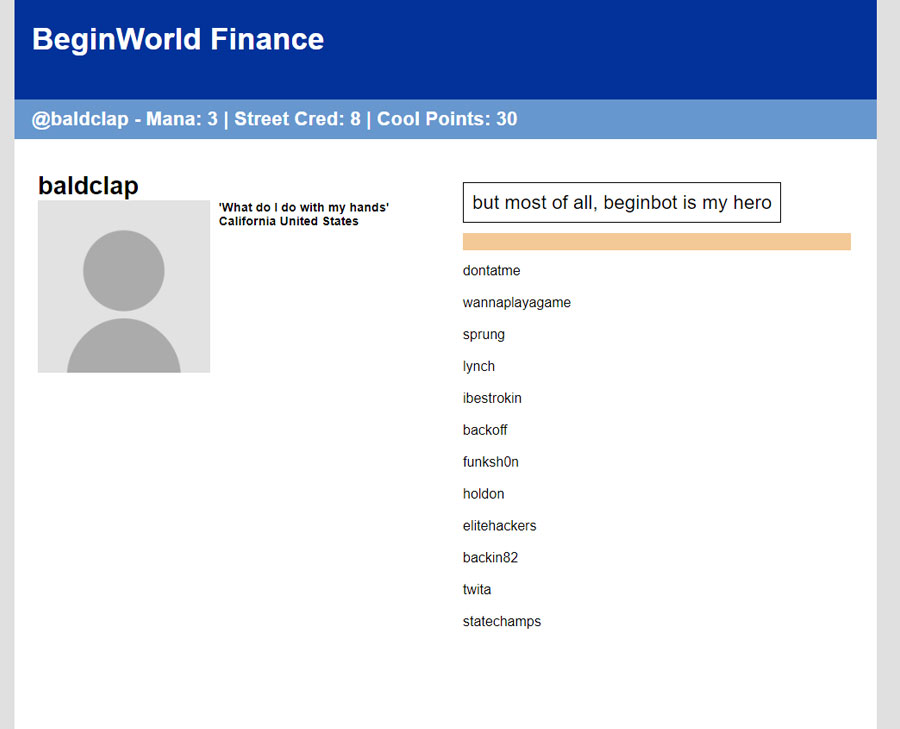
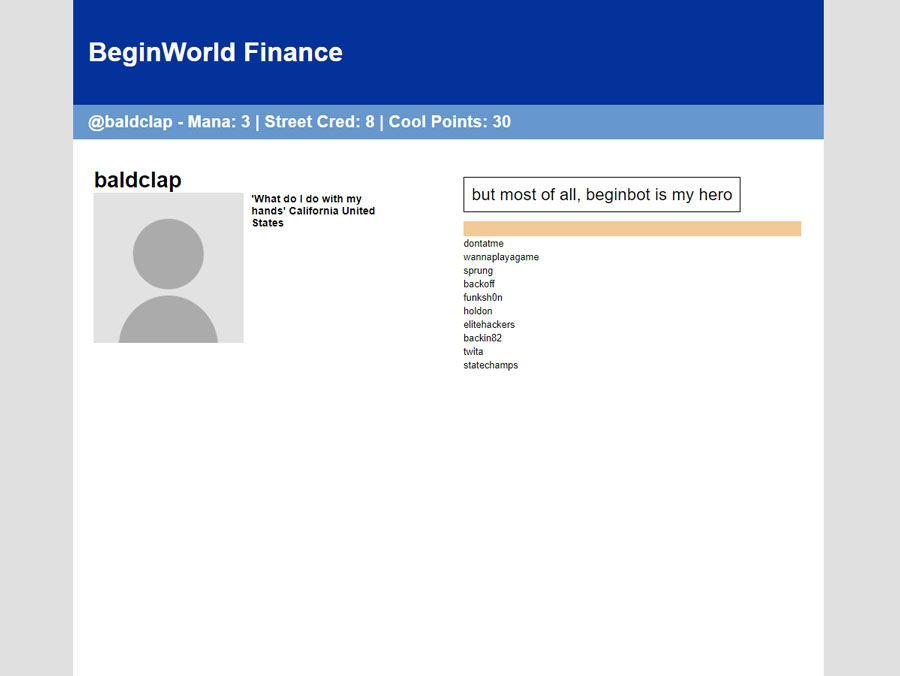
Update Myspace CSS

Changed region(s): [[0.0, 0.0, 0.9956, 1.0], [0.4978, 0.7145, 0.5911, 0.7766], [0.4978, 0.8077, 0.5911, 0.8698]]

diff --git a/myspace.css b/myspace.css
@@ -70,11 +70,11 @@ li:first-of-type {
 }
 li {
     color: black;
-    font-size: .5em;
+    font-size: .8em;
 }
 li a {
     color:black;
-    font-size:.5em;
+    font-size:.8em;
     text-decoration: none;
 }
 li a:hover {

diff --git a/README.md b/README.md
@@ -6,47 +6,47 @@ To use any of these themes as your own Beginland theme, grab the URL below and t
 
 Donate: This org is entirely run on donations. Your donations are greatly appreciated. Please address all Street Cred/Cool Point/Sound donations to the artist directly. 
 
-##Baldclap 1 (animated)
-artist: @baldclap
+## Baldclap 1 (animated)
+*artist: @baldclap*
 https://dillonupgradeit.github.io/css-fun/baldclap1.css
 ![](images/baldclap1.gif)
 
-##Beginbot 1
-artist: @beginbot
+## Beginbot 1
+*artist: @beginbot*
 https://dillonupgradeit.github.io/css-fun/beginbot1.css
 ![](images/beginbot1.jpg)
 
-##Beginbotbot 1
-artist: @beginbotbot
+## Beginbotbot 1
+*artist: @beginbotbot*
 https://dillonupgradeit.github.io/css-fun/beginbotbot1.css
 ![](images/beginbotbot1.jpg)
 
-##Cachesking 1 (animated)
-artist: @cachesking
+## Cachesking 1 (animated)
+*artist: @cachesking*
 https://dillonupgradeit.github.io/css-fun/cachesking1.css
 ![](images/cachesking1.gif)
 
-##Myspace
-artist: @baldclap
+## Myspace
+*artist: @baldclap*
 https://dillonupgradeit.github.io/css-fun/myspace.css
 ![](images/myspace.jpg)
 
-##Sanari_Nomi 1
-artist: @sanari_nomi
+## Sanari_Nomi 1
+*artist: @sanari_nomi*
 https://dillonupgradeit.github.io/css-fun/sanarinomi.css
 ![](images/sanarinomi1.jpg)
 
-##Usernamesarelame 1
-artist: @usernamesarelame
+## Usernamesarelame 1
+*artist: @usernamesarelame*
 https://dillonupgradeit.github.io/css-fun/usernamesarelame1.css
 ![](images/usernamesarelame1.jpg)
 
-##Whatsinmyopsec 1 (animated)
-artist: @whatsinmyopsec
+## Whatsinmyopsec 1 (animated)
+*artist: @whatsinmyopsec*
 https://dillonupgradeit.github.io/css-fun/whatsinmyopsec1.css
 ![](images/whatsinmyopsec1.gif)
 
-##Zolor 1
-artist: @zolor
+## Zolor 1
+*artist: @zolor*
 https://dillonupgradeit.github.io/css-fun/zolor1.css
-![](images/zolor1.gif)
+![](images/zolor1.jpg)
